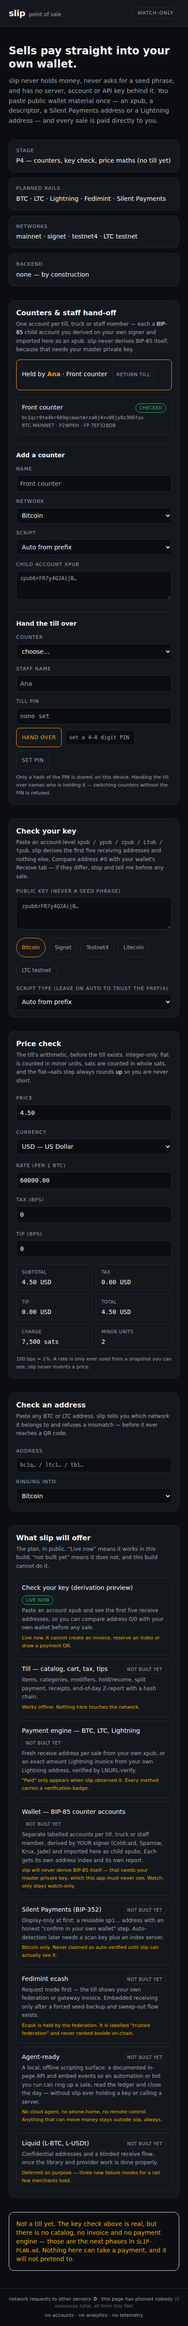
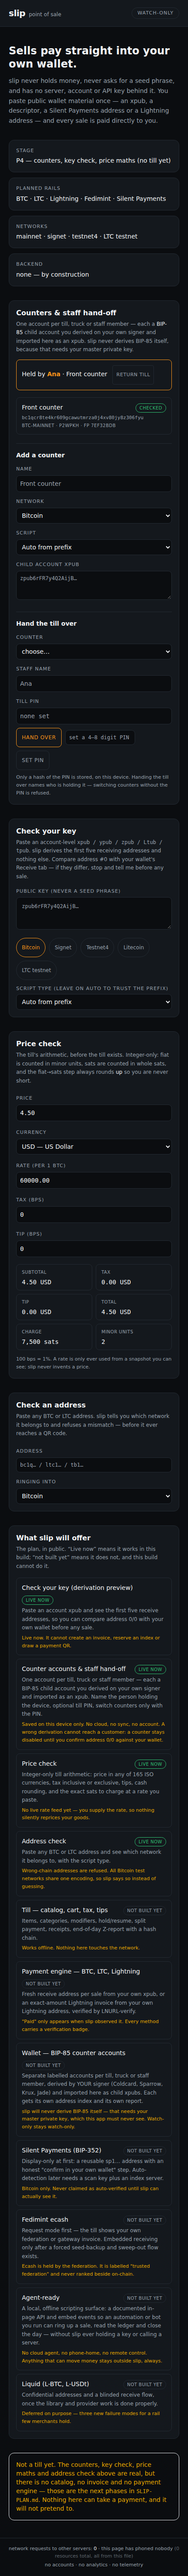
slip: services menu reflects P4 — counters, price check and address check are live now

Changed region(s): [[0.0302, 0.0, 0.907, 1.0]]

diff --git a/src/ui/Services.tsx b/src/ui/Services.tsx
@@ -27,6 +27,28 @@ const SERVICES: Service[] = [
     guard: 'Live now. It cannot create an invoice, reserve an index or draw a payment QR.',
   },
   {
+    name: 'Counter accounts & staff hand-off',
+    status: 'shipped',
+    detail:
+      'One account per till, truck or staff member — each a BIP-85 child account you derived on your own signer and imported as an xpub. Name the person holding the device, optional till PIN, switch counters only with the PIN.',
+    guard:
+      'Saved on this device only. No cloud, no sync, no account. A wrong derivation cannot reach a customer: a counter stays disabled until you confirm address 0/0 against your wallet.',
+  },
+  {
+    name: 'Price check',
+    status: 'shipped',
+    detail:
+      'Integer-only till arithmetic: price in any of 165 ISO currencies, tax inclusive or exclusive, tips, cash rounding, and the exact sats to charge at a rate you paste.',
+    guard: 'No live rate feed yet — you supply the rate, so nothing silently reprices your goods.',
+  },
+  {
+    name: 'Address check',
+    status: 'shipped',
+    detail:
+      'Paste any BTC or LTC address and see which network it belongs to, with the script type.',
+    guard: 'Wrong-chain addresses are refused. All Bitcoin test networks share one encoding, so slip says so instead of guessing.',
+  },
+  {
     name: 'Till — catalog, cart, tax, tips',
     status: 'planned',
     detail:

diff --git a/src/App.tsx b/src/App.tsx
@@ -68,8 +68,9 @@ export default function App() {
         <Services />
 
         <p className="mt-8 rounded-xl border border-warn/40 p-4 text-sm text-warn">
-          Not a till yet. The key check above is real, but there is no catalog, no
-          invoice and no payment engine — those are the next phases in{' '}
+          Not a till yet. The counters, key check, price maths and address check above are
+          real, but there is no catalog, no invoice and no payment engine — those are the
+          next phases in{' '}
           <code className="font-mono text-xs">SLIP-PLAN.md</code>. Nothing here can
           take a payment, and it will not pretend to.
         </p>
